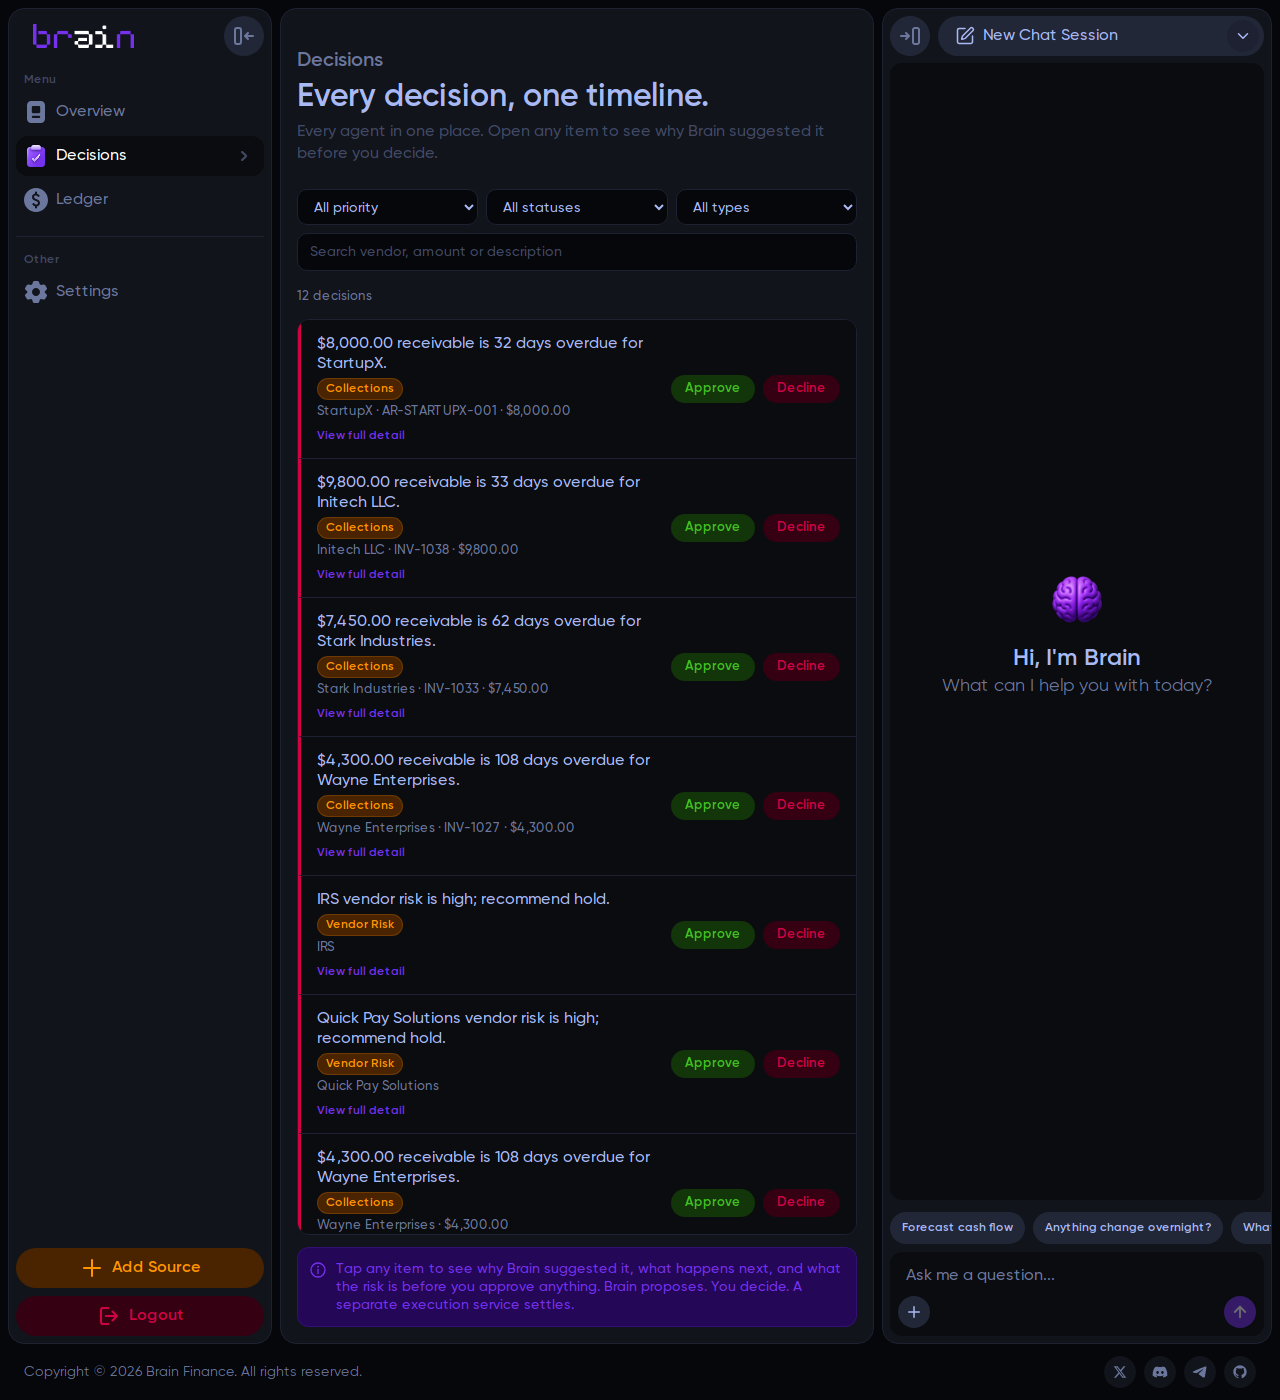
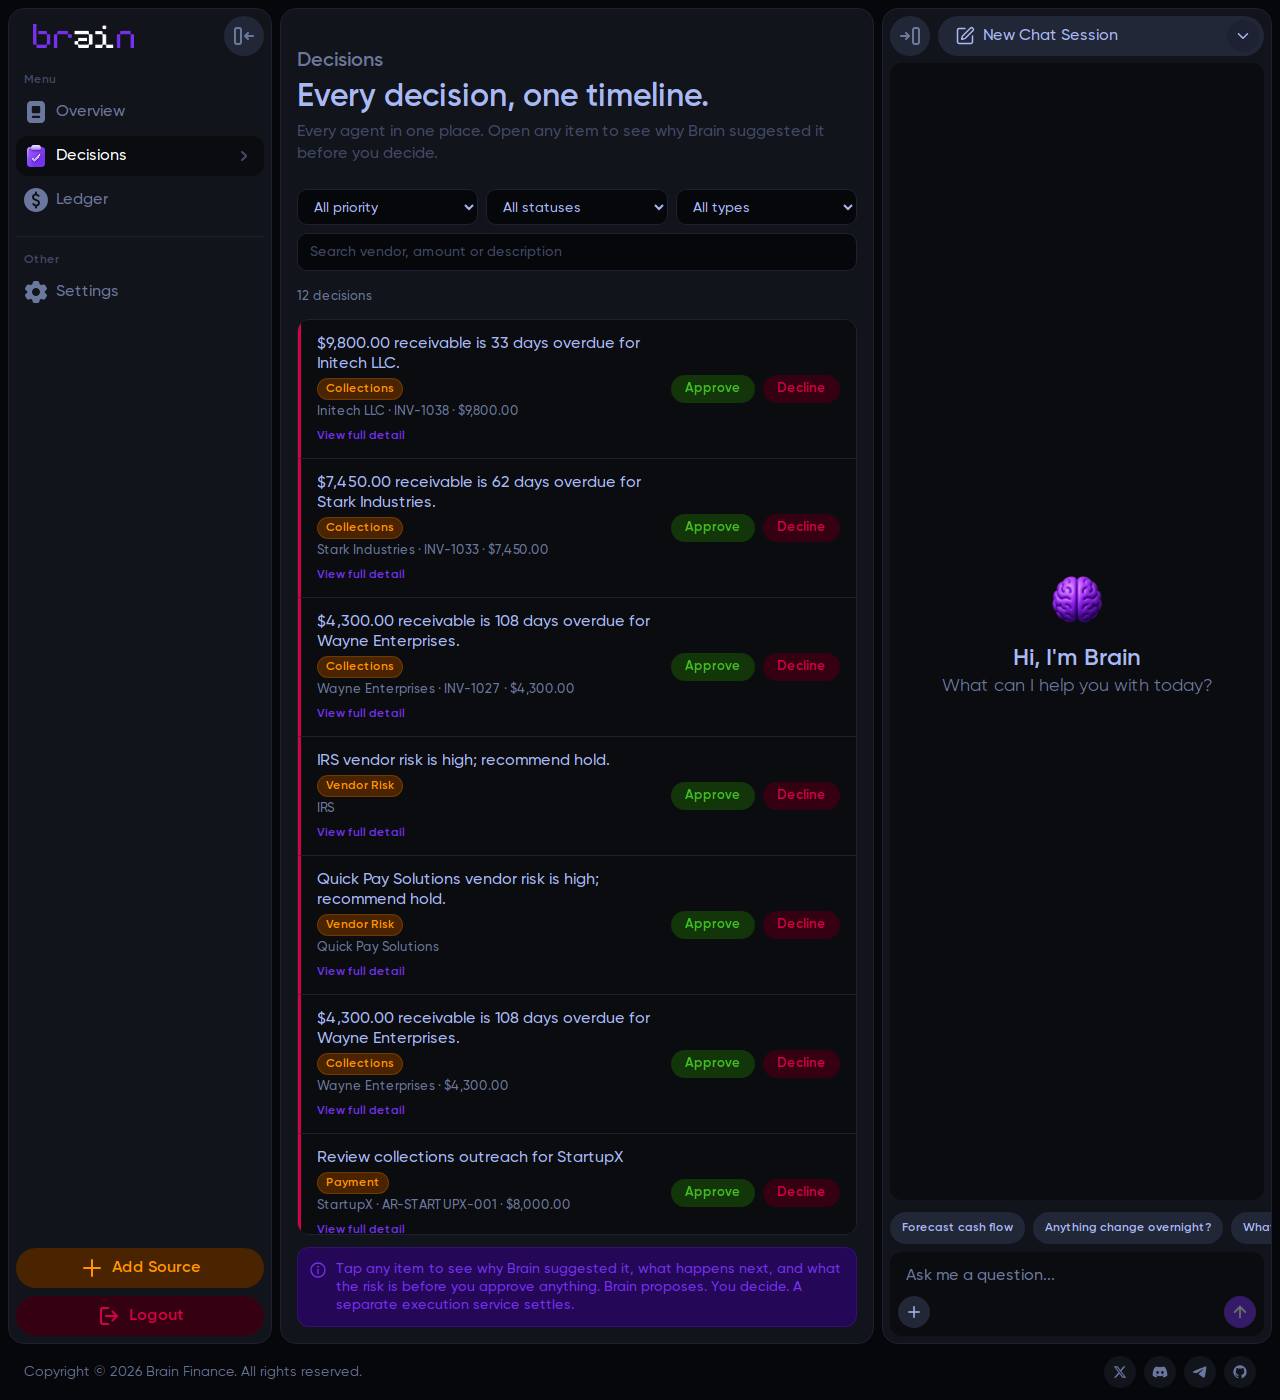
Record the fan-out variant of the unreachable-all-clear defect
Also refreshes the item 3 screenshots and adds the Overview shot showing the shared row primitive did not regress it.

diff --git a/.agents/memory/unreachable-data-all-clear.md b/.agents/memory/unreachable-data-all-clear.md
@@ -32,6 +32,14 @@ apart, so the fix belongs in the hook (surface `isError`) before the page. Check
 the hook's return shape first — some already expose it and the page just ignores
 it, which is a one-line fix.
 
+**Fan-out is the sneakiest instance.** A hook that lists ids then fetches each
+one has *two* failure modes, and the second is easy to miss: the list succeeds,
+one detail call fails, and that row is filtered out of the result with no error
+flag. The row is known to exist — its id came back on the list — so this is a
+confirmed record silently disappearing, and always downwards. Treat a failed
+detail fetch as incomplete. Lookups that only decorate a row (a display name)
+are the exception: losing one costs a label, not a record.
+
 **A partial list needs saying too.** When one of several feeds fails but rows
 still render, a row count implies completeness. Warn above the list; don't rely
 on the empty state alone, which by definition never fires.
